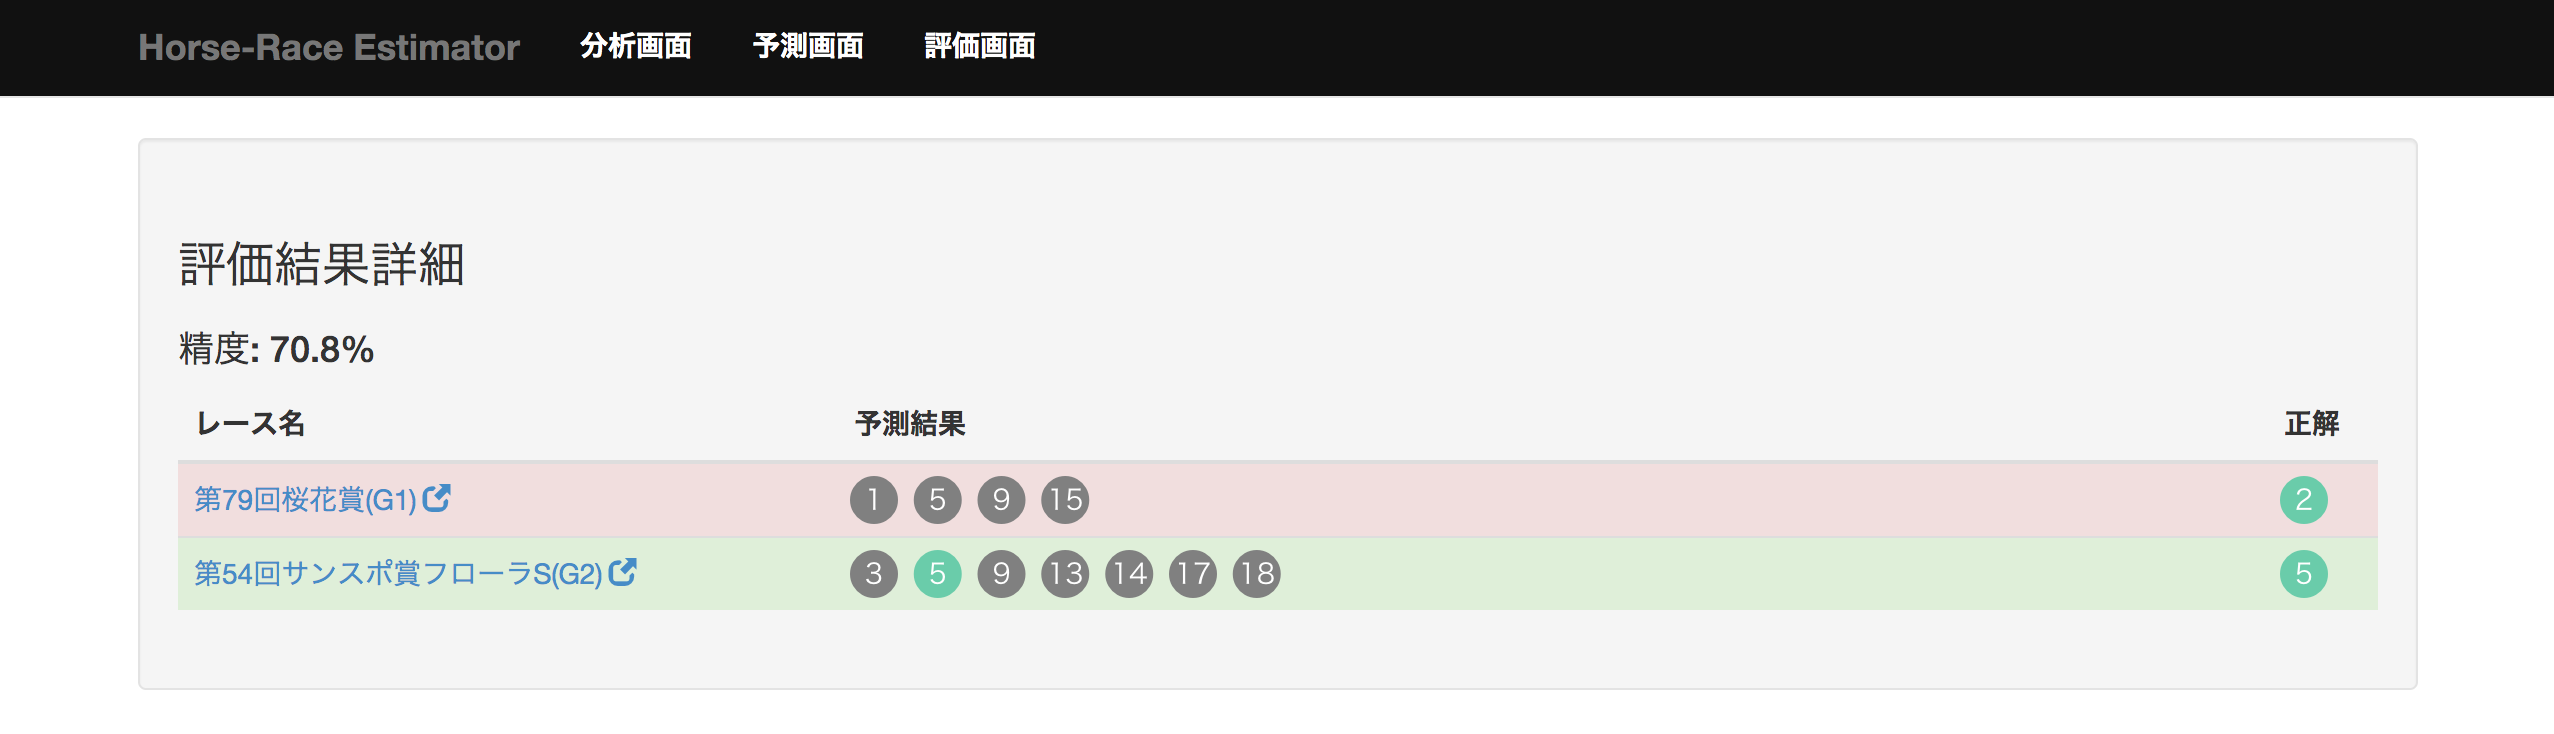
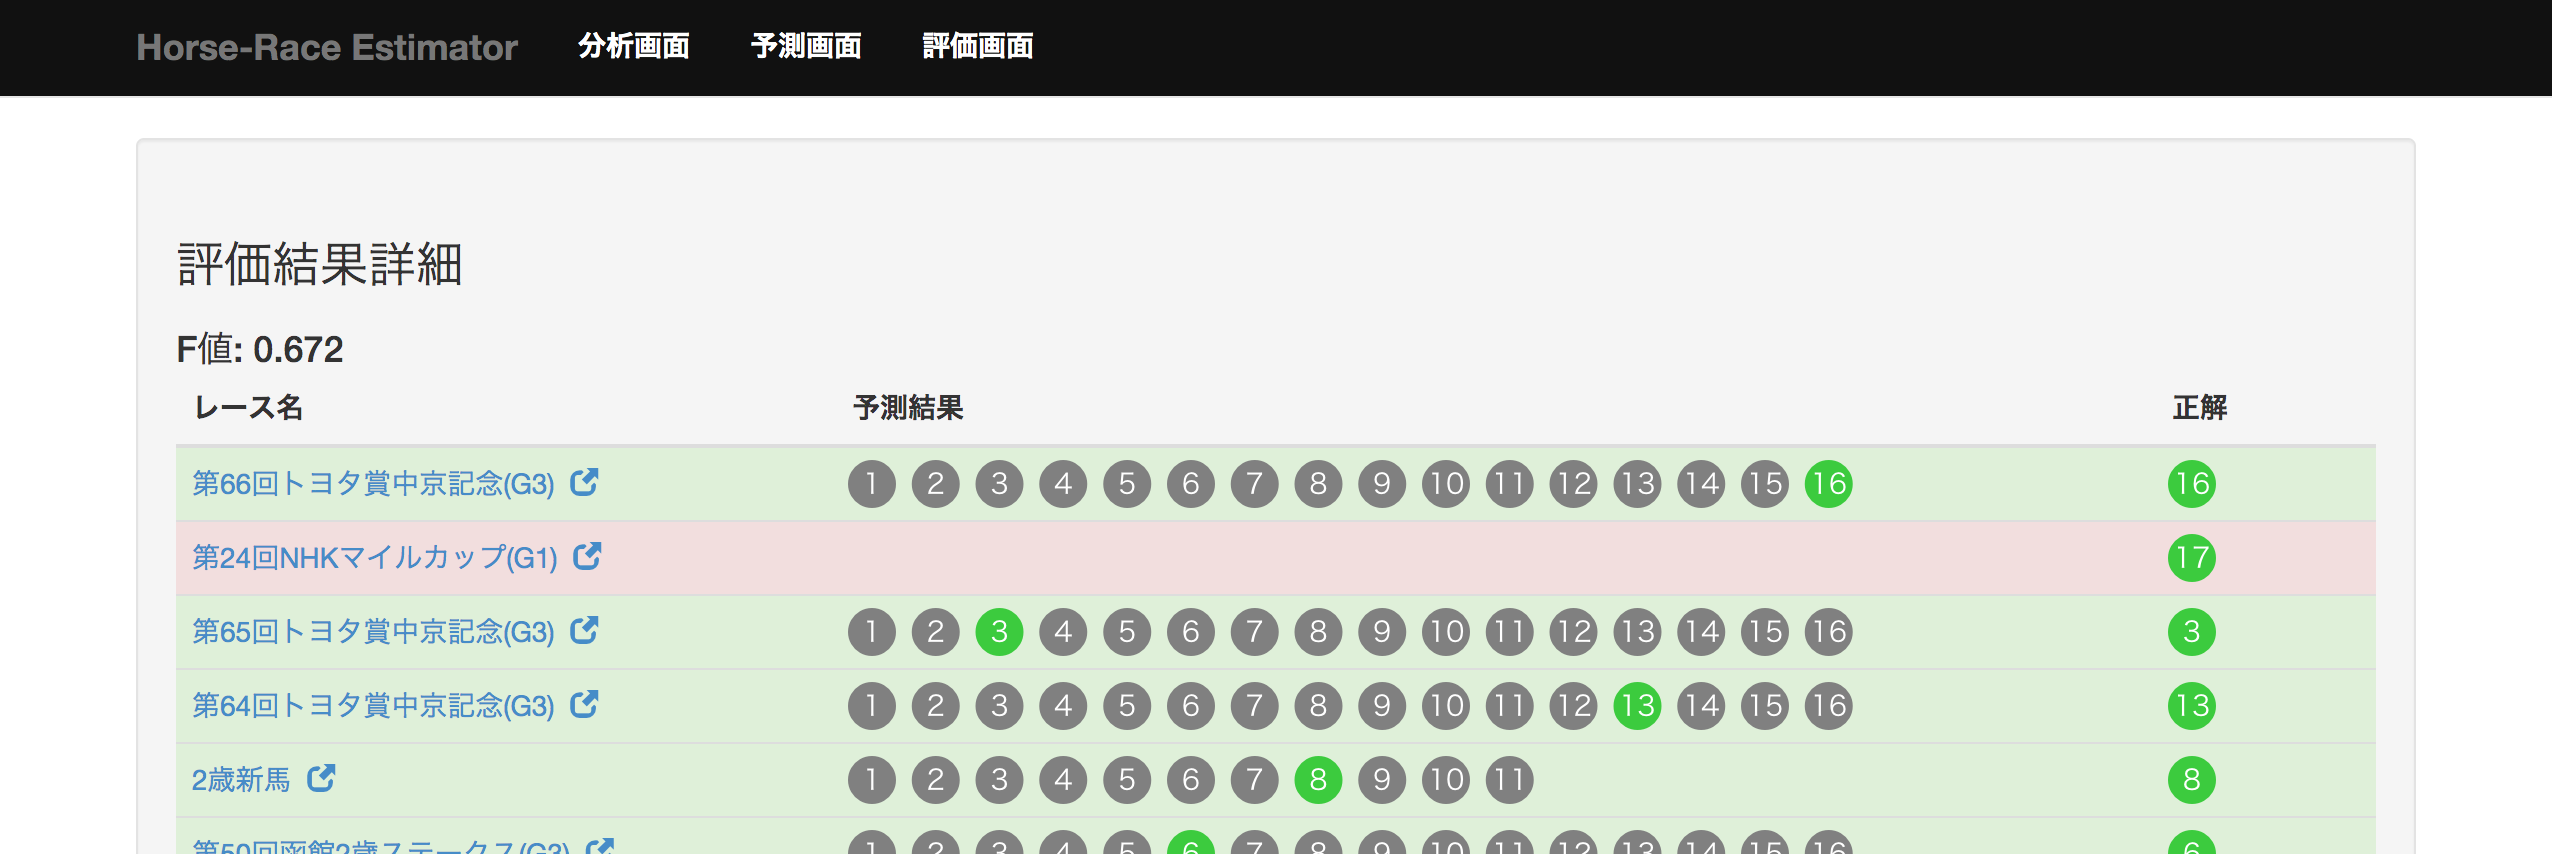
Alterf add recall fmeasure (#207)
* create images

* update external spec

* modify prediction results schema and update internal spec

* fix sequence

* update CHANGELOG.md

Changed region(s): [[0.0619, 0.4496, 0.9596, 1.0], [0.0, 0.03, 1.0, 0.1499], [0.0619, 0.2698, 0.1857, 0.4196]]

diff --git a/horse-race_estimator/alterf/external.rst b/horse-race_estimator/alterf/external.rst
@@ -17,6 +17,7 @@
 - :ref:`alt-ext-res-prediction`
 - :ref:`alt-ext-res-evaluation`
 - :ref:`alt-ext-res-eva-data`
+- :ref:`alt-ext-res-pre-result`
 
 .. _alt-ext-res-analysis:
 
@@ -59,7 +60,7 @@
      - 実行中
      - 完了
      - エラー"
-   結果,array[integer],1着と予測された馬番の配列,- 空配列，または1以上の数値の要素
+   結果,array[ :ref:`alt-ext-res-pre-result` ],予測結果の配列,
 
 .. _alt-ext-res-evaluation:
 
@@ -84,7 +85,9 @@
      - 実行中
      - 完了
      - エラー"
-   精度,float,評価したモデルの予測精度,- 0以上の小数
+   適合率,float,評価したモデルの適合率,- 0以上1以下の小数
+   再現率,float,評価したモデルの再現率,- 0以上1以下の小数
+   F値,float,評価したモデルのF値,- 0以上1以下の小数
    結果,array[ :ref:`alt-ext-res-eva-data` ], :ref:`alt-ext-res-eva-data` 参照,
 
 .. _alt-ext-res-eva-data:
@@ -100,8 +103,22 @@
 
    レース名,string,評価したレース名前,
    URL,string,評価したレースのURL,- httpsスキームのURL
-   予測結果,array[integer],1着と予想した馬番の一覧,- 空配列，または1以上の数値の要素
+   予測結果,array[ :ref:`alt-ext-res-pre-result` ],予測結果の配列,
    正解,integer,実際に1着となった馬番,- 1以上
+
+.. _alt-ext-res-pre-result:
+
+予測結果
+^^^^^^^^
+
+レースの予測結果を表す
+
+.. csv-table::
+   :header: 属性名,型,意味,備考
+   :widths: 20,10,30,40
+
+   馬番,integer,エントリーの馬番,- 1以上
+   予測結果,boolean,1着かどうかを表すラベル,- true または false
 
 .. _alt-ext-ui:
 
@@ -238,7 +255,7 @@
 .. image:: images/evaluation_result.png
    :alt: 評価結果画面
 
-- タイトルの下に精度が表示される
+- タイトルの下にF値が表示される
 - テーブルには評価結果が表示されている
 
   - :ref:`alt-ext-ui-evaluation` で選択した指定方法により以下でソートされている

diff --git a/horse-race_estimator/alterf/internal.rst b/horse-race_estimator/alterf/internal.rst
@@ -139,7 +139,7 @@ MVCモデルを利用する
 
 7. 素性をYAML形式でファイルに出力する
 
-レースの1着と予測されたエントリーの数だけ8を繰り返す
+レースのエントリーの数だけ8を繰り返す
 
 8. 予測結果情報を作成する
 
@@ -200,7 +200,7 @@ MVCモデルを利用する
 13. レース情報から評価データを作成する
 14. 抽出した素性をYAML形式でファイルに出力する
 15. 16を実行して評価データに対する予測結果をファイルから取得する
-16. 1着と予測された場合は予測結果データを作成する
+16. 予測結果データを作成する
 
 17. 評価結果から精度を計算する
 18. 評価ジョブ情報の状態を完了にする
@@ -296,7 +296,8 @@ prediction_resultsテーブル
    - :ref:`alt-int-sch-predictions`
    - :ref:`alt-int-sch-evaluation_data`",○
    predictable_type,STRING,関連モデル名,○
-   number,INTEGER,1着と予測されたエントリーの馬番,○
+   number,INTEGER,エントリーの馬番,○
+   won,TINYINT,1着かどうか,○
    created_at,DATETIME,予測結果情報の作成日時,○
    updated_at,DATETIME,予測結果情報の更新日時,○
 
@@ -316,7 +317,9 @@ evaluationsテーブル
    model,STRING,モデルファイル名,○
    data_source,STRING,評価データの情報源,○
    state,STRING,評価処理の状態,○
-   precision,FLOAT,評価したモデルの精度,
+   precision,FLOAT,評価したモデルの適合度,
+   recall,FLOAT,評価したモデルの再現率,
+   f_measure,FLOAT,評価したモデルのF値,
    created_at,DATETIME,評価ジョブ情報の作成日時,○
    updated_at,DATETIME,評価ジョブ情報の更新日時,○
 

diff --git a/CHANGELOG.md b/CHANGELOG.md
@@ -1,3 +1,6 @@
+# 2019/07/27
+- [Alterf] update version to 4.5.0
+
 # 2019/07/26
 - [Denebola] update version to 2.5.0
 
